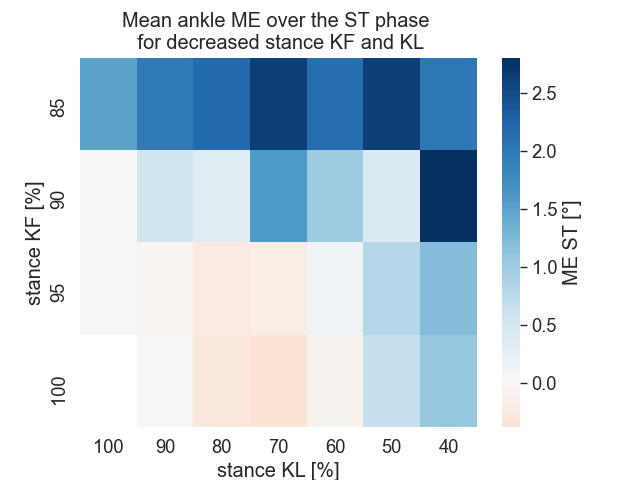
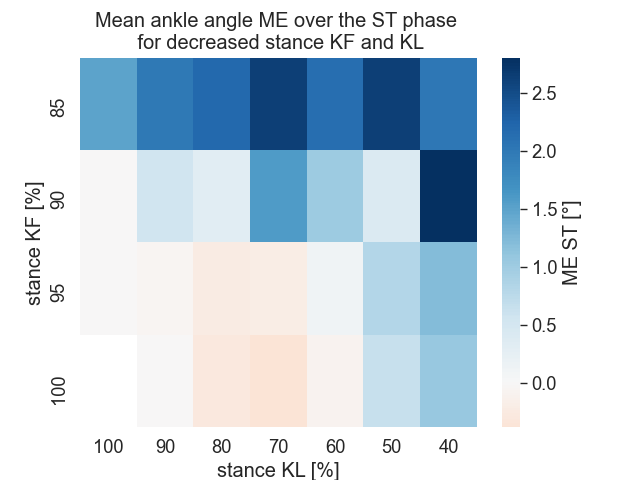
title

Changed region(s): [[0.125, 0.0, 0.7188, 0.0625]]

diff --git a/altered_models/src/assess_results_folder.py b/altered_models/src/assess_results_folder.py
@@ -512,7 +512,7 @@ def assess_parameter_folder_2d(parameter_folder, side):
         elif metric == 'spasticity_index_gas':
             title = 'Mean GAS spasticity index ('+side+') \n for '+par
         elif metric == 'ME_st':
-            title = 'Mean ankle ME over the ST phase \n for '+par
+            title = 'Mean ankle angle ME over the ST phase \n for '+par
         elif metric == 'min_es':
             title = 'Mean ankle angle min during the ES phase \n for '+par
         elif metric == 'step_length':
